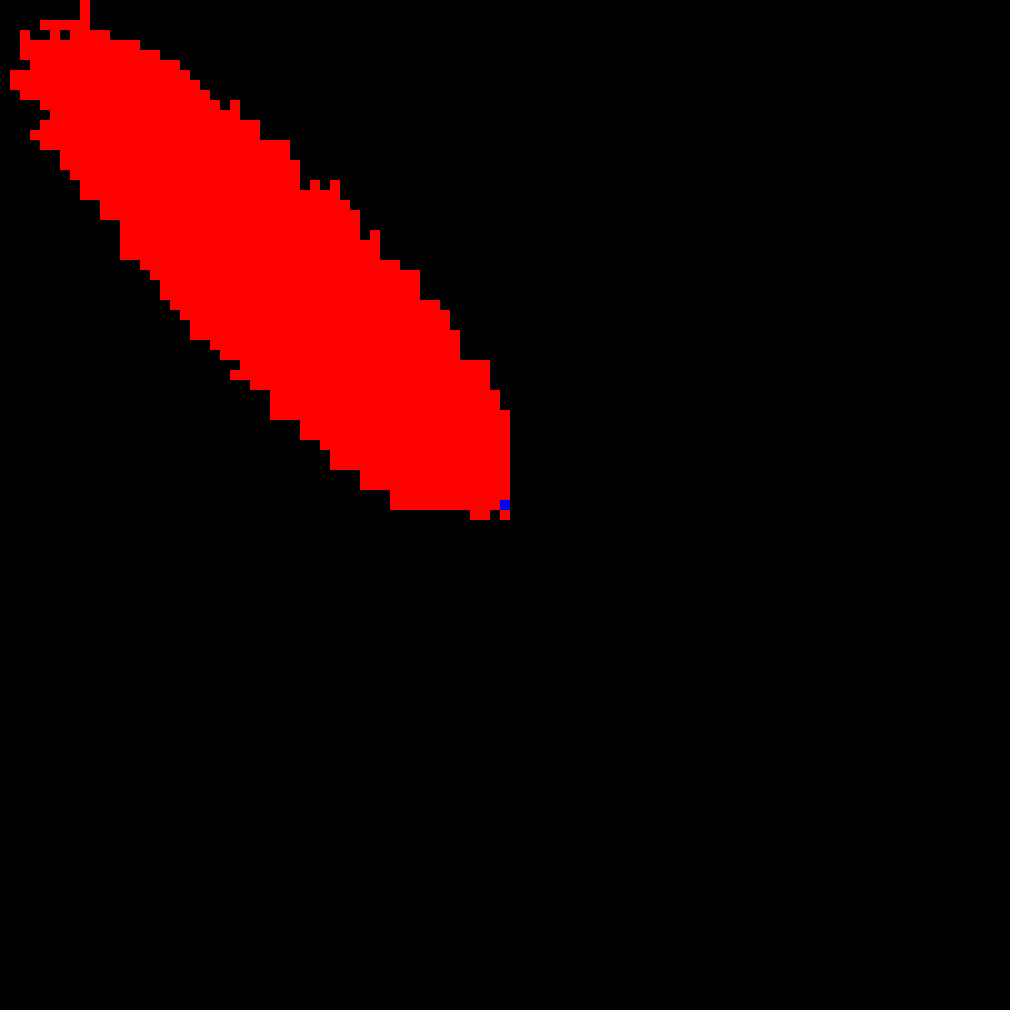
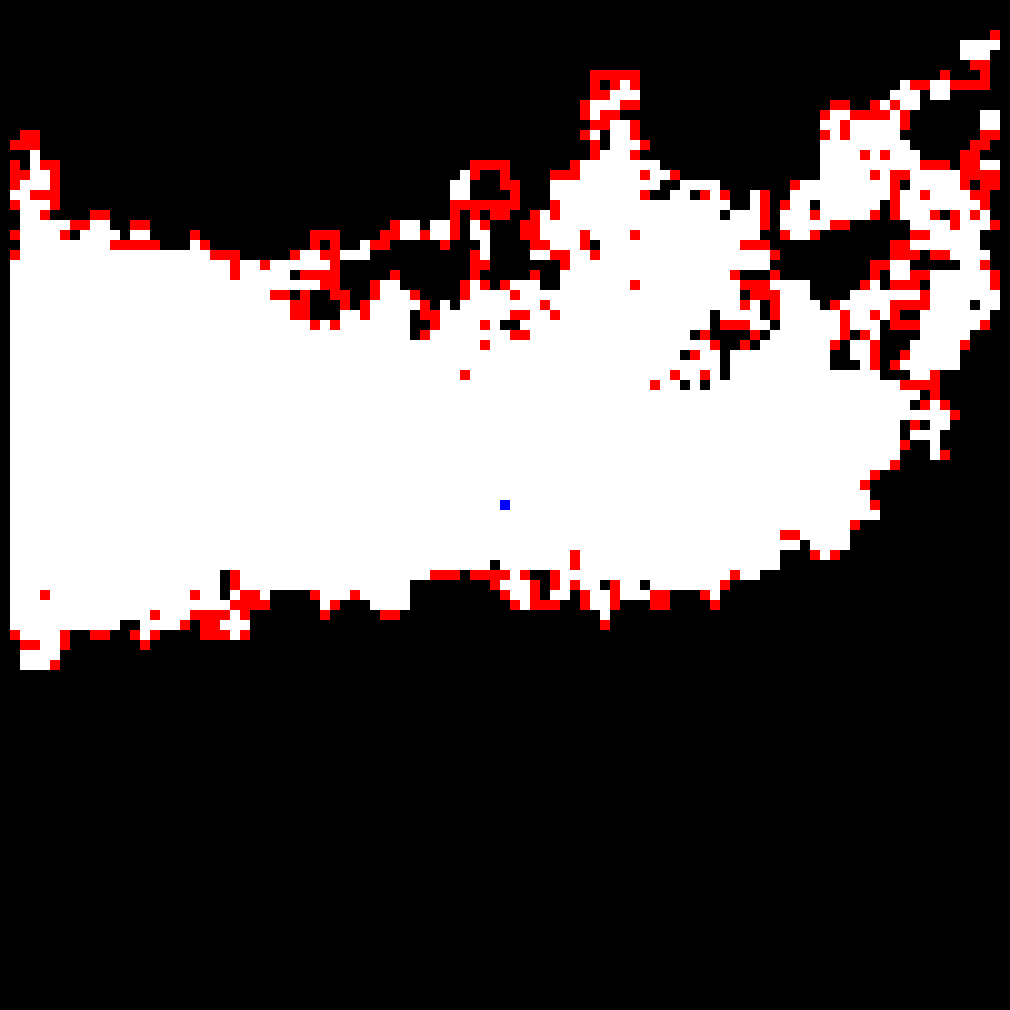
so many different ways of which none work

diff --git a/slime-mold/main.go b/slime-mold/main.go
@@ -22,9 +22,9 @@ import (
 )
 
 const END_RATIO = 0.1
-const Size = 51
+const SIZE = 101
 
-const SACRIFICE = 0.01
+const SACRIFICE = 0.001
 const SELFISH = 0.9
 
 const (
@@ -90,6 +90,17 @@ type Vector struct {
 	y float64
 }
 
+func (v *Vector) rotate(theta float64) {
+	a, b, c, d := math.Cos(theta), -math.Sin(theta), math.Sin(theta), -math.Cos(theta)
+
+	output := v
+
+	output.x = a*v.x + b*v.y
+	output.y = c*v.x + d*v.y
+
+	v = output
+}
+
 var UNITS = []Vector{
 	{x: 0, y: -1},
 	{x: 0, y: 1},
@@ -110,6 +121,13 @@ func (v *Vector) normalize() {
 	magnitude := v.magnitude()
 
 	v.scale(1 / magnitude)
+}
+
+func vectorFromPoint(p Point) Vector {
+	return Vector{
+		x: float64(p.x),
+		y: float64(p.y),
+	}
 }
 
 func factorial(n int) int {
@@ -180,6 +198,39 @@ func randomDirections(r *rand.Rand) []Point {
 	return directions
 }
 
+func forceField(v Vector) Vector {
+
+	delat_theta := math.Acos(
+		dotProduct(v, WEIGHT_VECTOR) / v.magnitude() / WEIGHT_VECTOR.magnitude(),
+	)
+
+	weight_theta := math.Atan(WEIGHT_VECTOR.y / WEIGHT_VECTOR.x)
+
+	if WEIGHT_VECTOR.x < 0 {
+		weight_theta += math.Pi
+	}
+
+	v_theta := math.Atan(v.y / v.x)
+
+	if v.x < 0 {
+		v_theta += math.Pi
+	}
+
+	if v_theta < weight_theta {
+		delat_theta *= -1
+	}
+
+	radius_fraction := v.magnitude() / (SIZE / 2)
+
+	output := v
+
+	output.rotate(delat_theta * radius_fraction)
+
+	output.normalize()
+
+	return output
+}
+
 func mid_point() Point {
 	// mid := (size - 1) / 2
 
@@ -221,9 +272,10 @@ type Walker struct {
 }
 
 type Model struct {
-	grid  Grid
-	grids []Grid
-	size  int
+	grid     Grid
+	nextGrid Grid
+	grids    []Grid
+	size     int
 	// p        float64
 	// people   int
 	// infected int
@@ -372,9 +424,13 @@ func init_model(size int, p float64, distance int) Model {
 	heart := false
 
 	var grid Grid
+	var nextgrid Grid
 	if !heart {
 		grid = gen_grid(size)
 		*grid.index(mid_point()) = Filled
+
+		nextgrid = gen_grid(size)
+		*nextgrid.index(mid_point()) = Filled
 	} else {
 
 		heart_radius := 30.0
@@ -388,10 +444,11 @@ func init_model(size int, p float64, distance int) Model {
 	// }
 
 	model := Model{
-		grid:  grid,
-		grids: make([]Grid, 0, 100),
-		size:  size,
-		time:  0,
+		grid:     grid,
+		nextGrid: nextgrid,
+		grids:    make([]Grid, 0, 100),
+		size:     size,
+		time:     0,
 		// p:        p,
 		// people:   size * size,
 		// infected: 1,
@@ -523,7 +580,8 @@ func weightedDirection(weight Vector) []float64 {
 	for i, unit := range UNITS {
 		dot := dotProduct(weight, unit)
 
-		probabilites[i] = math.Exp(dot)
+		// probabilites[i] = math.Exp(dot)
+		probabilites[i] = 1 + (dot / 2)
 	}
 
 	return probabilites
@@ -579,58 +637,88 @@ func (m *Model) tick(r *rand.Rand) bool {
 	panic("shouldnt reach this")
 }
 
-// func (m *Model) alternate_tick(r *rand.Rand) bool {
-//
-// 	walker := m.origin()
-//
-// 	var new_point Point
-//
-// 	for true {
-//
-// 		// start := time.Now()
-//
-// 		// step := random_step(r)
-//
-// 		for {
-// 			// index := r.Int63n(4)
-// 			// if index == 3 {
-// 			// 	continue
-// 			// }
-// 			// direction := CARDINALS[index]
-// 			direction := weightedDirection(WEIGHT_VECTOR)
-//
-// 			new_point = add_points(walker, mid_point())
-//
-// 			if *m.grid.index(new_point) == Filled {
-// 				if r.Float64() < SELFISH {
-// 					walker = new_point
-// 					break
-// 				}
-// 			} else {
-// 				if r.Float64() < SACRIFICE {
-//
-// 					*m.grid.index(new_point) = Filled
-//
-// 					if m.onPerimeter(new_point) {
-// 						return true
-// 					} else {
-// 						return false
-// 					}
-// 				}
-// 			}
-//
-// 		}
-// 	}
-//
-// 	panic("shouldnt reach this")
-// }
+func (m *Model) alternate_tick(r *rand.Rand) bool {
+
+	fmt.Println("hi")
+	walker := m.origin()
+
+	var new_point Point
+
+	for true {
+		// time.Sleep(1 * time.Millisecond)
+		// fmt.Println(walker)
+
+		// start := time.Now()
+
+		// step := random_step(r)
+
+		// index := r.Int63n(4)
+		// if index == 3 {
+		// 	continue
+		// }
+		// direction := CARDINALS[index]
+
+		weight_vector := forceField(vectorFromPoint(walker))
+		// fmt.Println(walker)
+		// fmt.Println(weight_vector)
+		// println()
+		probs := weightedDirection(weight_vector)
+
+		probs2 := weightedDirection(WEIGHT_VECTOR)
+
+		for i := range probs2 {
+			// fmt.Println(i)
+
+			probs[i] += probs2[i]
+		}
+
+		for i := range probs {
+			// fmt.Println(i)
+
+			new_point = add_points(walker, CARDINALS[i])
+
+			if *m.grid.index(new_point) > 0 {
+				probs[i] *= float64(*m.grid.index(new_point))
+				// probs[i] *= SACRIFICE
+			}
+		}
+
+		fmt.Println(probs)
+
+		selection := CARDINALS[selectProbability(probs, r)]
+
+		new_point = add_points(walker, selection)
+
+		walker = new_point
+
+		if m.onPerimeter(new_point) {
+			return true
+		}
+
+		// if *m.grid.index(walker) == Empty {
+		// 	// fmt.Println("hi")
+		// 	*m.grid.index(walker) = Filled
+
+		// if m.onPerimeter(new_point) {
+		// 	return true
+		// } else {
+		// 	return false
+		// }
+		// }
+
+		*m.nextGrid.index(new_point) += 1
+	}
+
+	panic("shouldnt reach this")
+}
 
 func (m *Model) run_trial(r *rand.Rand) Data {
 	model := m
 
-	for m.time < int(2e3) {
+	for m.time < int(10) {
 		// fmt.Println(m.time)
-		end := model.tick(r)
+		// end := model.tick(r)
+		_ = model.alternate_tick(r)
 
 		copied := make(Grid, m.size)
 		for i := range copied {
@@ -645,9 +733,9 @@ func (m *Model) run_trial(r *rand.Rand) Data {
 
 		// fmt.Println("ticked me off")
 
-		if end {
-			break
-		}
+		// if end {
+		// 	break
+		// }
 	}
 
 	data := make(Data, 0, model.radius)
@@ -675,7 +763,7 @@ func run_simulation() stats.Series {
 		clear_line()
 		fmt.Print("this much done: ", p*100, "%")
 
-		model := init_model(Size, p, distance)
+		model := init_model(SIZE, p, distance)
 
 		data := model.run_trial(r)
 		casted := data.toSeries()
@@ -961,10 +1049,9 @@ func make_3d_chart(data []opts.Chart3DData) {
 
 func one_trial(filename string) {
 	// parameters:
-	size := 101
 	p := 0.1
 	distance := 20
-	model := init_model(size, p, distance)
+	model := init_model(SIZE, p, distance)
 	r := rand.New(rand.NewSource(time.Now().UnixNano()))
 	// tps := 1
 
@@ -1001,7 +1088,7 @@ func one_trial(filename string) {
 }
 
 func calc_color(percent float64) color.NRGBA {
-	RStart, REnd := 255.0, 1.0
+	RStart, REnd := 1.0, 255.0
 
 	// WOW !!! great code
 	return color.NRGBA{
@@ -1060,6 +1147,15 @@ func grid2png(grid Grid) *image.NRGBA {
 
 	scale := screen_size / size
 
+	largest := 0.0
+	for _, row := range grid {
+		for _, value := range row {
+			if float64(value) > largest {
+				largest = float64(value)
+			}
+		}
+	}
+
 	*grid.index(mid_point()) = Origin
 
 	// cropped := model.size - model.distance*2
@@ -1071,7 +1167,12 @@ func grid2png(grid Grid) *image.NRGBA {
 	for y, row := range grid {
 		for x, value := range row {
 
-			var color color.Color = StateColor[value]
+			var color color.Color
+			if value == Empty {
+				color = StateColor[value]
+			} else {
+				color = calc_color(float64(value) / largest)
+			}
 
 			for i := range scale {
 				for j := range scale {
